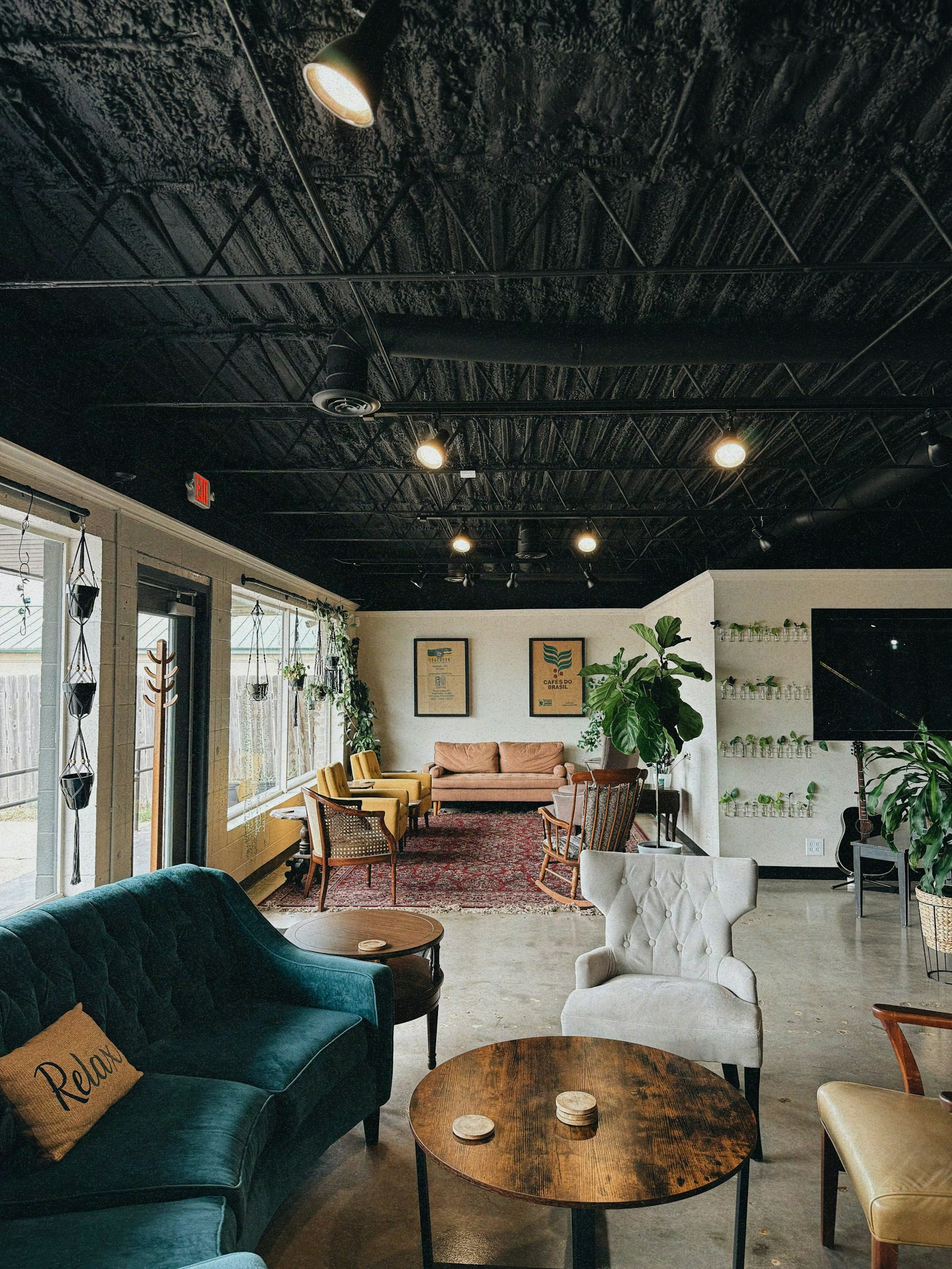
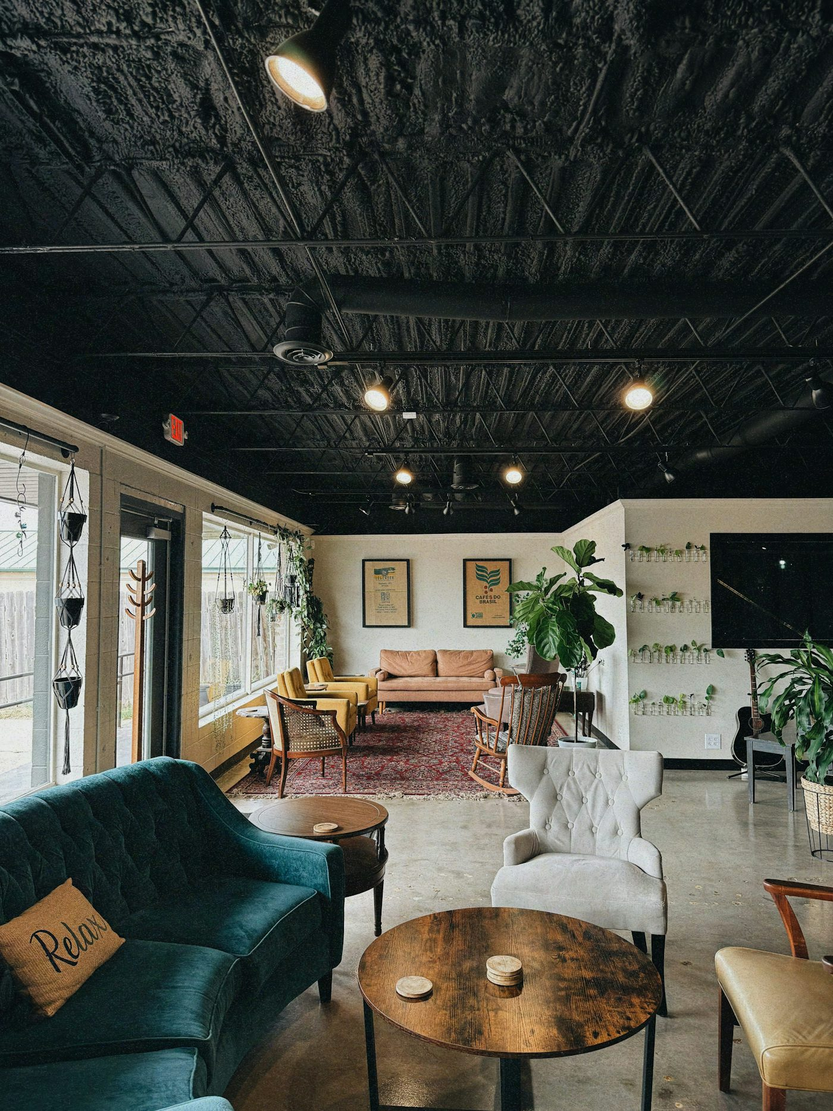
lab: тест 02 — эскиз в работе
Claude-Session: https://claude.ai/code/session_01UqRvtDzESc8Lc1AD4SeErL

diff --git a/projects/kofesobaken/assets/sources.md b/projects/kofesobaken/assets/sources.md
@@ -1,0 +1,24 @@
+# Источники фото — эскиз КофеСобакен
+
+Все фото — Unsplash, лицензия Unsplash License (бесплатно для коммерческого использования, без обязательной подписи).
+Файлы — `design/sketch/img/`. Стоковые собаки — НЕ собаки кофейни: на сайте подписаны «скоро здесь будут наши».
+До запуска заменить на свои фото заказчика (собаки, зал, напитки).
+
+| Файл | Что на фото | Автор | Источник |
+|---|---|---|---|
+| hero-pomeranian-coffee.jpg | шпиц выглядывает из-за столика с кофе | Ivan Krasnoperov | https://unsplash.com/photos/a-small-dog-on-a-table-XqROiY9cw_A |
+| dog-cafe-table.jpg | джек-рассел у столика | Daniel Brunsteiner | https://images.unsplash.com/photo-1536783006430-a4134d1c4748 |
+| guest-with-dog.jpg | гостья с собакой за столом | Susn Matthiessen | https://images.unsplash.com/photo-1534243420028-d7b79ea1c703 |
+| dog-in-cafe.jpg | собака у столика в кафе | Jojo Yuen | https://images.unsplash.com/photo-1594997359546-a7eef7006343 |
+| poodle-sweater.jpg | пудель в свитере за столиком | Ezgi Deliklitas | https://images.unsplash.com/photo-1766781497248-bf078aa029c1 |
+| cozy-table.jpg | столик с латте, круассаном и книгой | Rizky Subagja | https://images.unsplash.com/photo-1542372147193-a7aca54189cd |
+| latte-pour.jpg | бариста рисует латте-арт | Fahmi Fakhrudin | https://images.unsplash.com/photo-1541167760496-1628856ab772 |
+| latte-glass.jpg | латте в стеклянной чашке | Billy Kwok | https://images.unsplash.com/photo-1570968915860-54d5c301fa9f |
+| iced-latte.jpg | айс-латте в стакане | Demi DeHerrera | https://images.unsplash.com/photo-1461023058943-07fcbe16d735 |
+| cup-wood.jpg | капучино на деревянном столе | Jonas Jacobsson | https://images.unsplash.com/photo-1502462041640-b3d7e50d0662 |
+| menu-board.jpg | кофемашина и меню на доске | Jonathan Borba | https://images.unsplash.com/photo-1545418314-7ce0b9b53901 |
+| dog-green.jpg | ши-тцу в зелёной бандане | Karsten Winegeart | https://images.unsplash.com/photo-1678153184494-1f6fc14a673d |
+| dog-yellow.jpg | собака на жёлтом фоне | Karsten Winegeart | https://images.unsplash.com/photo-1698949654875-544ecfef27ac |
+| dog-red.jpg | собака в красном свитере | Karsten Winegeart | https://images.unsplash.com/photo-1608096299210-db7e38487075 |
+| dog-mint.jpg | собака на зелёном фоне | Karsten Winegeart | https://images.unsplash.com/photo-1629740067905-bd3f515aa739 |
+| interior-light.jpg | светлый зал с диванами и растениями | Skyler Smith | https://images.unsplash.com/photo-1769184618842-068a5ad1a112 |
